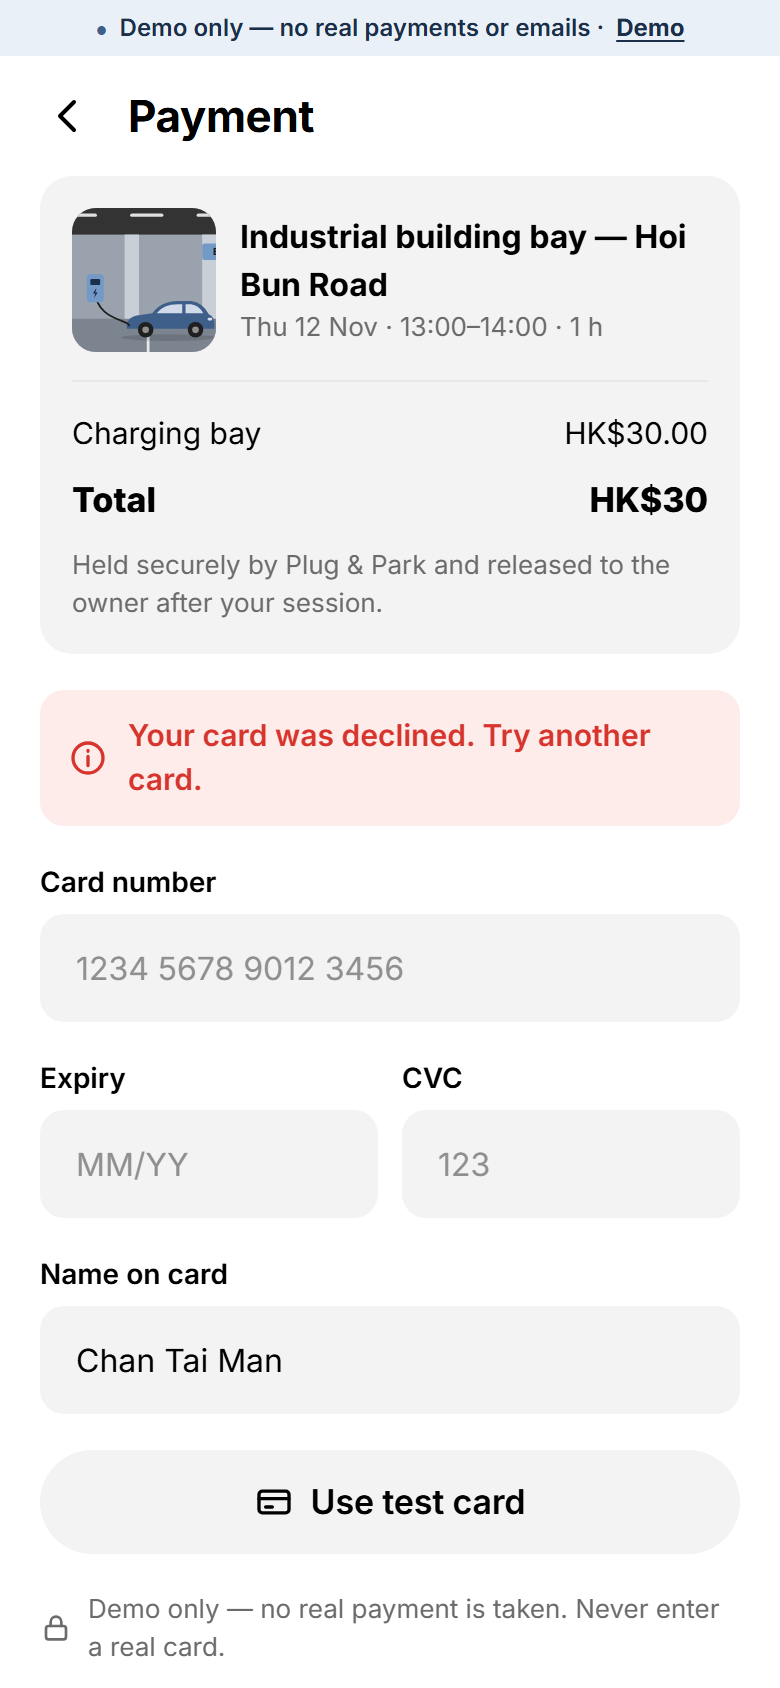
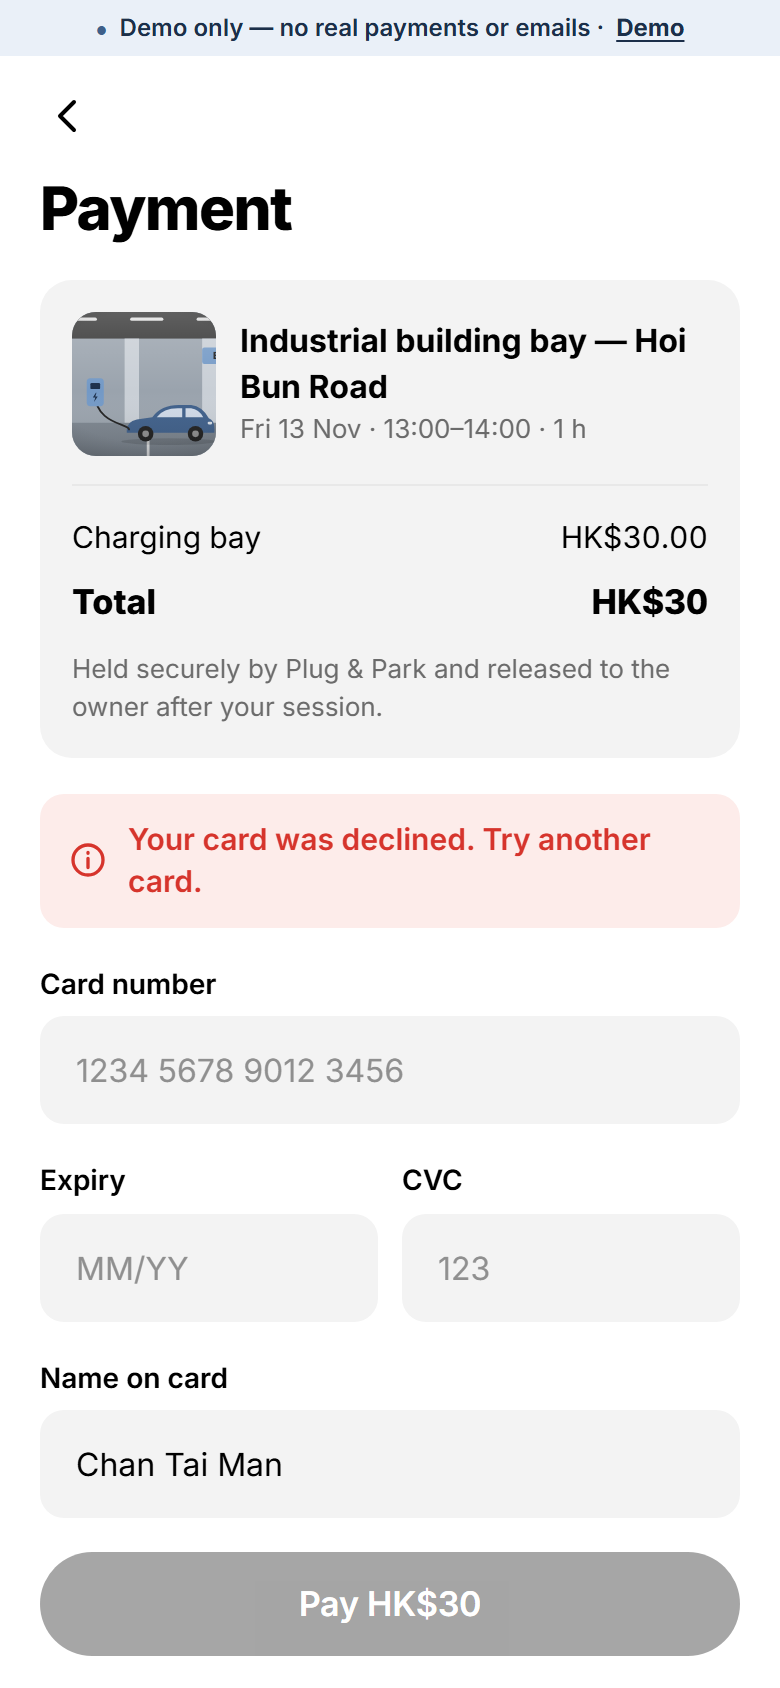
RF-6: Use declined card button on Payment + checks

diff --git a/src/screens/driver/Payment.tsx b/src/screens/driver/Payment.tsx
@@ -169,16 +169,31 @@ export function Payment({ id }: { id: string }) {
               autoCapitalize="words"
               placeholder="Chan Tai Man"
             />
-            <button
-              type="button"
-              className="btn btn-secondary block"
-              onClick={() => {
-                setDeclined(null)
-                f.fill({ number: '4242 4242 4242 4242', expiry: testExpiry(), cvc: '123', name: user?.name ?? '' })
-              }}
-            >
-              <Icon name="card" size={20} /> Use test card
-            </button>
+            {/* Demo shortcuts: one tap fills the success card or the declined card (RF-6). */}
+            <div className="row" style={{ gap: 10 }}>
+              <button
+                type="button"
+                className="btn btn-secondary sm"
+                style={{ flex: 1, minHeight: 44, paddingInline: 10 }}
+                onClick={() => {
+                  setDeclined(null)
+                  f.fill({ number: '4242 4242 4242 4242', expiry: testExpiry(), cvc: '123', name: user?.name ?? '' })
+                }}
+              >
+                <Icon name="card" size={18} /> Use test card
+              </button>
+              <button
+                type="button"
+                className="btn btn-secondary sm"
+                style={{ flex: 1, minHeight: 44, paddingInline: 10 }}
+                onClick={() => {
+                  setDeclined(null)
+                  f.fill({ number: '4000 0000 0000 0002', expiry: testExpiry(), cvc: '123', name: user?.name ?? '' })
+                }}
+              >
+                Use declined card
+              </button>
+            </div>
           </fieldset>
 
           <p className="caption row" style={{ gap: 8 }}>
